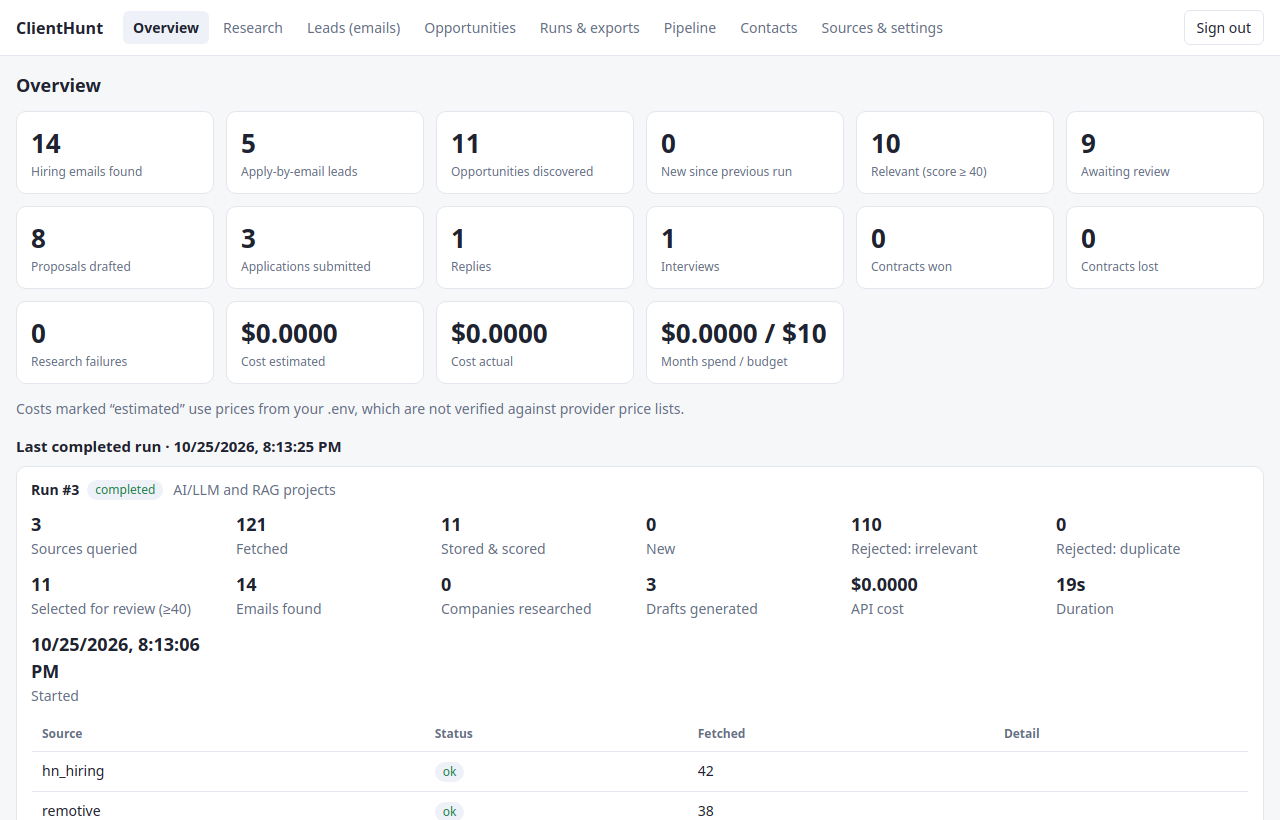
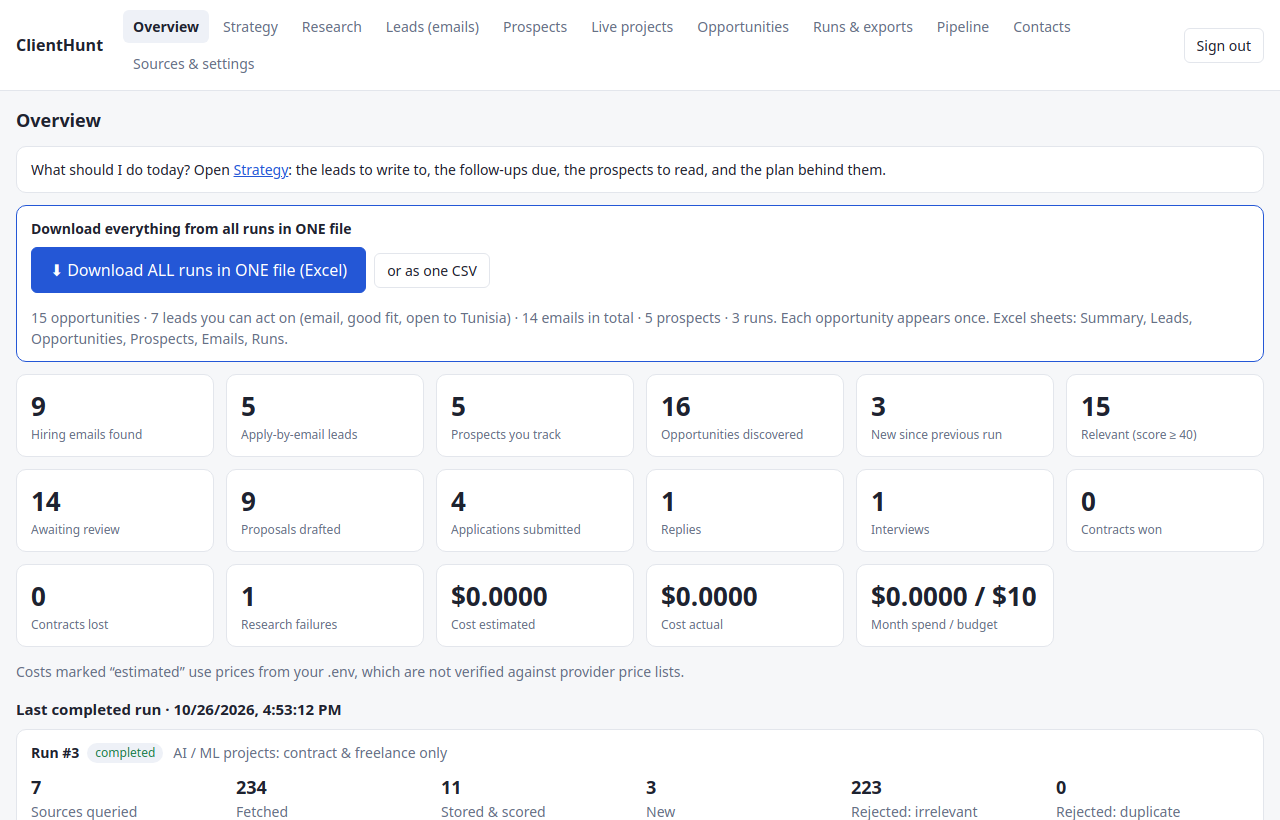
Update README for Strategy and Prospects and refresh screenshots
- Describe the Strategy and Prospects tabs and how to use them
- Explain why there is no Upwork scraper and what the app does instead
- Record the sources checked and not used (web search APIs, the ended Hacker News
  freelancer thread) with the reason for each
- Describe the location rules and the safety rules for prospects
- New screenshots (synthetic demo data only) for Strategy, networks, prospects and
  a prospect; all other screenshots retaken for the new navigation
- Test counts: 434 backend, 48 UI, 1 browser test

diff --git a/README.md b/README.md
@@ -1,20 +1,22 @@
 # ClientHunt
 
-A private workspace for finding companies that need a Python / AI / LLM / RAG / FastAPI / AWS engineer **and
-published an email to apply**. It ranks them transparently, researches the client from public sources with
-evidence, drafts messages you review, and lets you download everything as CSV.
+A private workspace for finding people and companies that need a Python / AI / ML / LLM / FastAPI / AWS engineer,
+**especially those who published an email to apply**. It reads many remote-work sources, ranks the results
+transparently, researches the client from public sources with evidence, drafts messages you review, and puts
+**everything from all runs into one downloadable file**. A **Strategy** tab turns the stored data into a plan for the day,
+and **Prospects** lets you add the companies, agencies and networks *you* choose to approach.
 **It never sends or submits anything for you.**
 
 ![Overview](assets/screenshots/overview.png)
 
-*All screenshots use synthetic demo data: fictional companies and `.example` addresses. Nothing in them is a real
-opportunity or a real person.*
+*All screenshots use synthetic demo data: fictional companies, `.example` addresses and a fictional stand-in for the
+Freelancer.com API. Nothing in them is a real opportunity or a real person.*
 
 ## Tools used
 
 **Database**: every run, opportunity, company, evidence quote, contact, draft, application and export is stored in a
 database. SQLite by default (one file, `data/clienthunt.db`), PostgreSQL 16 with Docker Compose. Tables are created
-and upgraded by Alembic migrations (3 so far) through the SQLAlchemy ORM.
+and upgraded by Alembic migrations (4 so far) through the SQLAlchemy ORM.
 
 [![SQLite](https://img.shields.io/badge/SQLite-003B57?style=for-the-badge&logo=sqlite&logoColor=white)](https://www.sqlite.org/)
 [![PostgreSQL](https://img.shields.io/badge/PostgreSQL-4169E1?style=for-the-badge&logo=postgresql&logoColor=white)](https://www.postgresql.org/)
@@ -49,23 +51,30 @@ of AI (Claude Code).
 
 | | |
 |---|---|
-| **Leads: companies hiring now, with the email they published** <br> ![Leads](assets/screenshots/leads.png) | **A finished run: both CSVs and a ZIP of them** <br> ![Run result](assets/screenshots/run-result.png) |
-| **Opportunities, ranked by fit** <br> ![Opportunities](assets/screenshots/opportunities.png) | **Transparent score, "easy to reach" signals and published emails** <br> ![Score and emails](assets/screenshots/score-and-emails.png) |
-| **Company research: verbatim quotes with source and time; inferences kept apart** <br> ![Company research](assets/screenshots/company-research.png) | **Proposal draft with rationale, cited portfolio and approval gates** <br> ![Proposal draft](assets/screenshots/proposal-draft.png) |
-| **Download all CSVs in one ZIP** <br> ![Exports](assets/screenshots/exports-zip.png) | **Pipeline: only what you really submitted** <br> ![Pipeline](assets/screenshots/pipeline.png) |
+| **Strategy: today's plan, built from your own data** <br> ![Strategy](assets/screenshots/strategy.png) | **What clients ask for, and the skills your verified work does not show yet** <br> ![What clients ask for](assets/screenshots/strategy-market.png) |
+| **Networks to apply to: their own words, location limits and the bar** <br> ![Networks](assets/screenshots/strategy-networks.png) | **Prospects: companies and agencies you choose, with the mailboxes they published** <br> ![Prospects](assets/screenshots/prospects.png) |
+| **A prospect: where each mailbox came from and what its site says** <br> ![Prospect detail](assets/screenshots/prospect-detail.png) | **Research: pick a search, one click, one download** <br> ![Research](assets/screenshots/research.png) |
+| **Leads: companies hiring now, with the email they published** <br> ![Leads](assets/screenshots/leads.png) | **Live projects: clients who need AI/ML work right now, with competition shown** <br> ![Live projects](assets/screenshots/live-projects.png) |
+| **Transparent score, "easy to reach" signals and published emails** <br> ![Score and emails](assets/screenshots/score-and-emails.png) | **Company research: verbatim quotes with source and time; inferences kept apart** <br> ![Company research](assets/screenshots/company-research.png) |
+| **Proposal draft with rationale, cited portfolio and approval gates** <br> ![Proposal draft](assets/screenshots/proposal-draft.png) | **Runs and exports: one file for everything, per-run files tucked away** <br> ![Runs and exports](assets/screenshots/runs-and-exports.png) |
+| **Pipeline: only what you really sent, with your replies and your own follow-ups** <br> ![Pipeline](assets/screenshots/pipeline.png) |  |
 
 ## What it does
 
 | Area | Behaviour |
 |---|---|
-| **Leads and emails** | The **Leads** tab lists companies hiring now with the email *they* published (in their hiring post, or a careers/contact mailbox on their own website), plus where and when it was found. **Download all emails (CSV)** is one click, and every run also writes its own `emails_*.csv`. Emails are never guessed and never taken from Upwork or Fiverr. Each is marked `eligible` (the company invited applications there) or `review_required`. |
-| **Download everything** | **Runs & exports → Download ALL CSVs (ZIP)** gives every opportunities/emails CSV in one file with a `manifest.csv`. There is also a ZIP per run. A file changed after export is left out and flagged. |
+| **One file for everything** | **⬇ Download ALL runs in ONE file (Excel)** is on the Overview, Research, Leads and Runs pages. The workbook has the sheets *Summary, Leads, Opportunities, Prospects, Emails, Runs*. Each opportunity appears once even if several runs found it, and every row keeps its links. There is also a single flat CSV. It is built on demand from the database, so it is always current and adds no files. Text is stored as text (never a formula) and only http(s) links are clickable. |
+| **Strategy** | The **Strategy** tab is the plan for the day, built from what is stored: the open leads to write to (contract and freelance first, never ones restricted to other countries), listings to apply to by link, follow-ups that are due (day 4, day 10, then stop), prospects to read or pitch, and portfolio items still unverified. It counts which skills clients ask for and flags the ones your *verified* work does not show, says which offers you can back with verified work, lists networks with **their own words** and the date they were read, and gives the weekly rhythm, the message shape, a spending plan for a $50-200 budget and an income calculator you can change. Percentages and medians appear only when there is enough data; the hourly rate stays hidden until at least 8 listings state one. |
+| **Prospects** | The **Prospects** tab is for companies, agencies and networks *you* choose. You paste websites; ClientHunt reads their own public pages (robots.txt respected, private addresses refused), keeps verbatim excerpts, finds the role mailboxes they published (same domain only, with page and date) and lists public signs they may need AI/automation/cloud work. A pitch to a published mailbox is unsolicited, so it stays `review_required` unless the site itself invites freelancers or contractors there. Drafts use a fixed offer, your verified portfolio and facts you approved, include an opt-out line, and are never machine-generated. Networks are not scored. |
+| **Leads and emails** | The **Leads** tab lists companies hiring now with the email *they* published (in their hiring post, or a careers/contact mailbox on their own website), plus where and when it was found. Emails are never guessed and never taken from Upwork or Fiverr. Each is `eligible` (the company invited applications there) or `review_required`. Addresses for accommodation requests, fraud reports, privacy or legal questions are rejected, ordinary job boards must contain clear "apply / send your resume" wording, and people advertising *themselves* in a hiring thread are never collected. |
+| **Live projects** | The **Live projects** tab shows open Freelancer.com projects for AI/ML (public API) with budget, number of bids, age and a "chance" score = fit for you − competition + freshness. Freelancer.com's API terms forbid storing its data, so this view is **never saved, exported or added to runs**. You bid there yourself. |
+| **Sources** | Remotive, Remote OK, Himalayas, Jobicy, We Work Remotely, Real Work From Anywhere, the Python Job Board and Hacker News "Who is hiring?"; **alert-email import** (Upwork, Contra, PeoplePerHour, Guru, Wellfound…); manual add. See the table below. |
+| **Saved searches** | Seven presets, including **AI / ML projects: contract & freelance only** (only listings that say so, open to Tunisia, fit ≥ 35) and **Easy to reach: hiring now, apply by email**. Roles restricted to other countries ("UK", "US only", "LATAM, Argentina") are dropped up front. So are on-site and hybrid roles, an explicit country list that does not name Tunisia or a region containing it (`Only: Egypt, South Africa` does not include Tunisia), and a listing whose *text* says "Location: LATAM" or "must be located in the US" even when its location field says "Worldwide". Hiring posts edited to say "CLOSED" are not offered as leads. |
 | Easy to reach | A 0–100 heuristic from visible signals: email to apply (+30), contract/freelance wording (+20), open to any location (+15), posted this week (+10), wants someone soon (+10), small team (+5), several openings (+5); minus for "no contractors/agencies" and location or work-authorisation limits. It shows *why*. It is not a hiring prediction. |
-| Sources | Remotive, Remote OK, Himalayas and Hacker News "Who is hiring?" through their public APIs; **alert-email import** (Upwork, Contra, PeoplePerHour, Guru, Wellfound…); manual add. Upwork and Freelancer.com adapters say "not available" instead of faking a connection. |
-| Ranking | 0–100: skills 35, portfolio relevance 25, budget 15, information quality 10, remote/location 10, freshness 5. Unknown data scores 0 and is listed. Location-restricted listings are capped at 50 and clearly non-engineering titles at 30. Only portfolio items you mark *verified* earn points or get cited. You can override a score or exclude a listing. |
+| Ranking | 0–100: skills 35, portfolio relevance 25, budget 15, information quality 10, remote/location 10, freshness 5. Unknown data scores 0 and is listed. Location-restricted listings are capped at 50 and clearly non-engineering titles at 30 (judged by role words such as *engineer* or *scientist*, not by topics such as "AI"). Only portfolio items you mark *verified* earn points or get cited. You can override a score or exclude a listing. |
 | Company research | Fetches the company's own site (SSRF-safe, robots.txt respected). Facts are verbatim excerpts checked against the page, with URL and timestamp; inferences are stored separately as hypotheses and never used in drafts. You approve each fact before it can appear in a proposal. |
 | Drafts | Free template drafts (from the listing, your verified portfolio and approved facts) or optional LLM drafts. The checker flags invented years, results, certifications, URLs, compliments and off-platform contact details. Editing resets approval. Approved is not submitted. |
-| CSV | Created automatically for every completed or partial run (also with zero rows), timestamped, never overwritten, UTF-8 with BOM for Excel, spreadsheet-formula injection neutralised, SHA-256 recorded and checked on download. Failed runs produce no CSV; failed exports can be retried. |
+| Per-run CSVs | Every completed or partial run also writes its own `opportunities_*.csv` and `emails_*.csv` (also with zero rows), timestamped and never overwritten, SHA-256 recorded and checked on download. They sit in a collapsed *Individual files (archive)* section, with a ZIP of all of them. Failed runs produce no CSV. |
 | Jobs | Runs are database rows executed by a worker thread: pending, running, completed, partial, failed, cancelled, with progress, retries, cancel and restart recovery. |
 | Contacts | Separate tables from opportunities. Source URL, date and snippet are kept for every address, with eligibility checks, a suppression list and a `forget` command. |
 
@@ -90,28 +99,59 @@ Put a TLS reverse proxy in front before exposing it beyond your machine, and set
 
 ## How to use it
 
-1. **Research** tab → pick a saved search (there are six, including **"Easy to reach: hiring now, apply by email"**) → **Run Research**.
-2. Watch the run card: status, current source, counters, errors per source, cost.
-3. **Leads** tab → **Download all emails (CSV)**. Or **Runs & exports → Download ALL CSVs (ZIP)**.
-4. Open the original listing first. Use *Details / draft* to see the score breakdown, research the company and generate a draft.
-5. Edit and approve the draft, submit it yourself on the platform or by your own email, then click *I submitted this*.
-6. Track replies, interviews and outcomes in **Pipeline**.
+1. **Research** tab → the saved search **AI / ML projects: contract & freelance only** is preselected → **Run Research** (about 20 seconds).
+2. Click **⬇ Download ALL runs in ONE file (Excel)**. That one file has every run, each opportunity once, with the leads and emails.
+3. **Leads** tab: companies that published an email. Open the original listing first, then *Details / draft* for the score breakdown, company research and a draft.
+4. **Live projects** tab: current Freelancer.com projects with few bids and a fresh posting are the best chance. Open and bid there.
+5. Edit and approve a draft, submit it yourself on the platform or by your own email, then click *I submitted this* and track replies in **Pipeline**.
+6. **Strategy** tab: start each session there. It lists today's leads, follow-ups and prospects. Log your own follow-ups in Pipeline ("I followed up") so the next one is counted from the right day.
+7. **Prospects** tab: paste the websites of companies or agencies you want to approach (or press *Track in Prospects* next to a network on the Strategy tab), read the evidence, approve one fact, draft the pitch and send it yourself.
 
 For Upwork, create saved searches with email alerts there and paste the alert text into **Sources & settings → Alert import**.
 Under **Sources & settings** you also mark which portfolio items are verified. Only verified items are scored and cited.
 
 ## Sources and access
 
+Checked while building this; terms change, so check them before relying on any row.
+
 | Source | Access | Notes |
 |---|---|---|
-| [Remotive](https://github.com/remotive-com/remote-jobs-api) | public API, no key | at most about 4 fetches a day (the app caches for 6 h), 24 h delay, link back and credit Remotive |
+| [Remotive](https://github.com/remotive-com/remote-jobs-api) | public API, no key | at most about 4 fetches a day (cached 6 h), 24 h delay, link back and credit Remotive |
 | [Remote OK](https://remoteok.com/api) | public API, no key | link back and credit Remote OK |
 | [Himalayas](https://himalayas.app/api) | public API, free key optional | use the application link unchanged, link to Himalayas |
-| [Hacker News](https://hn.algolia.com/api) | Algolia search API, no key | monthly "Who is hiring?" thread; rate limit not verified; comments are untrusted text |
+| [Jobicy](https://jobicy.com/jobs-rss-feed) | public API, no key | terms read: credit Jobicy, link to its listing, storing allowed, poll at most hourly; has real Contract/Freelance listings |
+| [We Work Remotely](https://weworkremotely.com/remote-job-rss-feed) | public RSS | robots.txt allows; its terms page blocked automated reading, so terms are **not verified** (polled every 6 h, links back); includes A.Team independent-engineer roles |
+| [Real Work From Anywhere](https://www.realworkfromanywhere.com) | public RSS | RSS advertised on the site, robots.txt allows, no terms page found; every role is work-from-anywhere |
+| [Python Job Board](https://www.python.org/jobs/) | public RSS | robots.txt allows; legal pages could not be read; items have no date |
+| [Hacker News](https://hn.algolia.com/api) | Algolia search API, no key | monthly "Who is hiring?" threads; rate limit not verified; the main source of published application emails |
+| [Freelancer.com](https://developers.freelancer.com) | public API, **live view only** | its [API terms](https://www.freelancer.com/about/apiterms) say "You may not copy or store any Data" (cache only, refreshed within 24 h), so projects are shown live and never stored or exported |
 | Upwork | [API needs approval](https://support.upwork.com/hc/en-us/articles/115015857647-How-to-request-an-API-key-from-Upwork) | scraping is not allowed, so it is used through alert emails you import |
-| Fiverr, Freelancer.com, PeoplePerHour, Guru, Contra, Wellfound | none verified | no permitted discovery API was found; not scraped |
+| Hacker News "Freelancer? Seeking freelancer?" | not used | posted monthly until October 2025; no newer thread exists (checked 2026-10-27), so it is stale |
+| Web search APIs (to find company sites) | not used | [Brave's terms](https://api-dashboard.search.brave.com/terms-of-service) (section 3(b)(i)) forbid to "store, cache, or create a database of Search Results" except transient storage, and this app must keep its evidence; Google's Custom Search JSON API is closed to new customers |
+| Reddit r/forhire | not used | its robots.txt disallows automated access; read it yourself |
+| TED (EU tenders) | not used | open API, but public tenders need EU-registered bidders and are a poor fit for a solo engineer |
+| Working Nomads | not used | a public JSON feed exists but no terms could be found |
+| Fiverr, PeoplePerHour, Guru, Contra, Wellfound | none verified | no permitted discovery API was found; not scraped |
 
-Source terms change, so check them before relying on this table.
+**More places to look by hand** (Sources & settings lists them with how to use each): Freelancer.com category pages, Upwork,
+Contra, PeoplePerHour, Guru, Wellfound, A.Team, Toptal, Braintrust, Turing, Arc, Reddit r/forhire, and Zindi for African AI challenges.
+
+![More places to look](assets/screenshots/resources.png)
+
+## Why there is no Upwork scraper
+
+A natural idea is to collect company names from Upwork and then search for their emails. It is **not built, on purpose**:
+
+- Upwork's help center says automated tools that act faster than a person can lead to warnings or bans, and that approved API access is the permitted route
+  ([use bots and other automation properly](https://support.upwork.com/hc/en-us/articles/43342677368467-Use-bots-and-other-automation-properly)).
+- It also treats contact outside Upwork before a contract starts as circumvention of its terms
+  ([why can't I get paid directly](https://support.upwork.com/hc/en-us/articles/360048105134-Why-Can-t-I-Get-Paid-Directly)). That risks the account you would use for your best channel.
+- An address found by searching for a company name was not published as an invitation to be contacted about a project. The email rules below refuse to treat it as one.
+- The original brief for this project said not to scrape Upwork or Fiverr and not to bypass logins, CAPTCHAs or rate limits.
+
+Upwork blocks automated reading of those two pages (HTTP 403), so the summary above comes from search results about them: read the current text yourself.
+What the app does instead: it imports the Upwork **alert emails you already receive**, shows Freelancer.com projects live through its API, lets you name the companies
+and agencies to read under **Prospects**, and lists the hiring posts whose company published its own address.
 
 ## Safe by design
 
@@ -120,21 +160,28 @@ Source terms change, so check them before relying on this table.
 - `eligible` is a narrow judgement: the company invited applications at that address, so use it only for that purpose.
   Anything else is `review_required`. Suppress anyone who asks not to be contacted; `python -m app.cli forget someone@example.com`
   deletes a contact but keeps a suppression entry.
-- Retrieved pages, job posts and files are treated as untrusted data. Instructions inside them are never followed.
-- Login before any exposure, secrets only in `.env` (git-ignored), input validation and safe CSVs.
+- Retrieved pages, feeds, job posts and files are treated as untrusted data: XML is parsed with `defusedxml`, HTML is reduced to text,
+  and only `http(s)` links are ever stored or clickable. Instructions inside them are never followed.
+- Platform terms are respected: Freelancer.com data is never stored, Reddit is not read, Upwork and Fiverr are not scraped.
+- A **prospect** is always a site *you* named. Only public http(s) addresses are accepted (localhost, private ranges, credentials and non-web links are refused), the site is read with
+  the same SSRF-safe, robots.txt-respecting fetcher, and mailboxes are taken only from the company's own domain and only role names (`contact@`, `partners@`, `jobs@` ...), never a named person.
+  A published mailbox is not permission to market: a pitch there stays `review_required`, carries an opt-out line, and is written without a model.
+- The **Strategy** tab never shows a figure it cannot back: no hourly rate below 8 observations, no reply or win rate below 10 logged messages, no income forecast (only arithmetic on assumptions you can change).
+- Login before any exposure, secrets only in `.env` (git-ignored), input validation and safe spreadsheets and CSVs.
 - Cold-email rules differ by country. This is not legal advice.
 
 ## Tests
 
 ```bash
-cd backend && .venv/bin/python -m pytest -q          # 114 passed
-cd frontend && npx vitest run                        # 15 passed (loading/error/empty states, CSV panel, Leads, ZIP)
-cd frontend && npx playwright test                   # 1 passed (login → import → leads → emails CSV → ZIP → draft → approve → record)
+cd backend && .venv/bin/python -m pytest -q          # 434 passed
+cd frontend && npx vitest run                        # 48 passed
+cd frontend && npx playwright test                   # 1 passed (login → import → leads → one-file Excel → live projects → draft → approve → record → strategy → prospect → pitch → follow-up)
 ```
 
-Tests use synthetic data and mocked HTTP. No real email or application is ever sent. The app was also run against the real
-public APIs: the CSV rows, URLs and checksums matched the database, and Docker Compose with PostgreSQL started, applied the
-migrations and enforced login.
+Tests use synthetic data and mocked HTTP (a stub stands in for Freelancer.com). No real email or application is ever sent.
+The app was also run against the real public sources: all eight stored sources answered, the one-file workbook opened with
+every sheet, and Docker Compose with PostgreSQL started, applied the four migrations, enforced login and served the Prospects and Strategy
+endpoints (migration 0004 was also run on a PostgreSQL that already held a row).
 
 ## Backups and troubleshooting
 
@@ -143,28 +190,38 @@ migrations and enforced login.
 - `address already in use`: another program uses the port. Start with another one, for example `--port 8765`.
 - "Cannot reach the server": the backend is not running or uses another port.
 - A source shows `failed`: read its error on the run card, then use *Retry run*. Transient errors are already retried 3 times.
-- Remotive returns the same results: intentional, it is cached for 6 hours to respect its fetch limit.
+- Remotive, Jobicy and the feeds return the same results for hours: intentional, they are cached to respect their polling limits.
 - A source shows `unavailable`: it needs authorisation or has no permitted API. Use Alert import.
+- Live projects says Freelancer.com asked us to slow down: wait a few minutes; results are cached for 15 minutes.
 - Export failed: check free disk space and permissions of `exports/`, then *Retry export* (this creates a new file).
 
 ## Limitations
 
-- **Emails** are only those a company published itself. In the Hacker News thread roughly 1 in 3 matching posts carries one; Remotive,
-  Remote OK and Himalayas use apply links. Website discovery (careers/contact mailboxes) only runs when the company website is known.
-  An address is checked for format only; the app cannot tell you that it works or that anyone will answer.
-- **Easy to reach** comes from keywords in the post. A post can say "ASAP" and still be slow. Always read the original listing.
-- Free job APIs return few contract or freelance roles, and no number of leads or clients is promised.
+- **Few worldwide contract/freelance AI/ML listings exist on free boards.** A real run fetched about 1,500 listings and kept about 10 that
+  say contract or freelance, are open to Tunisia and match AI/ML. Freelancer.com has many more projects, but typically dozens to hundreds of bids
+  each and many low budgets; that is why the Live projects tab shows competition. No number of leads or clients is promised.
+- **Emails** are only those a company published itself. In the Hacker News thread about 1 in 3 of the Python-related posts carried one; the other boards mostly use apply links.
+  Website discovery (careers/contact mailboxes) only runs when the company website is known. An address is checked for format only;
+  the app cannot tell you that it works or that anyone will answer. Detection of "this address is for applying" is rule-based and can
+  still be wrong: read the original post.
+- **Easy to reach** and **engagement type** (contract, freelance, part-time) come from keywords in the post; a post can say "ASAP"
+  and still be slow, and a full-time post can mention "contract". Always read the original listing.
+- Feeds without terms (We Work Remotely, Real Work From Anywhere, Python Job Board) are used cautiously (low polling, link-back), but
+  their terms were not verified.
 - Hacker News posts are free text, so company and location parsing is heuristic. Skill detection is keyword based. Scores are
   a reading-order guide, not a prediction of winning.
 - LLM drafting is tested with a mocked API only. It has not been run against the live Claude API, and the price defaults in
   `.env.example` are unverified.
 - The built-in portfolio ships with one verified item. The others (RAG project, churn API, Vocality/Soni2) are placeholders marked
   unverified until you confirm them.
+- **Networks and agencies**: the Strategy lists what each network's own page said on the date shown. Pages change, several are very selective (A.Team says under 2% are accepted),
+  and none of this is a promise of work. Some sites refuse automated reading (Toptal answered the app with HTTP 403); the app records "could not read it" and does not try to get around that.
+  Agencies are found by you: a site that sells delivery capacity is a hypothesis that it may subcontract, not a fact.
+- **Income and rates**: with 2 to 3 hours a day, the target of $1,000-3,000 a month implies a rate or a number of projects the calculator shows; it does not say that clients exist at that price. The stored data has only a handful of listings with an hourly rate, so no market rate is shown.
 - The SSRF guard resolves DNS before fetching; a hostile DNS rebind between check and connect is not fully excluded.
 - Single user and single worker. There is no IMAP polling yet.
 
 ## Next improvements
 
-IMAP read-only alert polling; a Freelancer.com adapter once its documentation and terms are verified; a search provider for finding
-official company sites (after checking current pricing); per-source quota dashboard; scheduled runs; contact discovery from official
-team/contact pages; a procurement adapter.
+IMAP read-only alert polling; company career-page watchlists (Greenhouse, Lever and Ashby public job-board APIs); finding official company sites without storing a search
+provider's results (none permitted one so far); per-source quota dashboard; scheduled runs; terms review for the feeds marked unverified.
